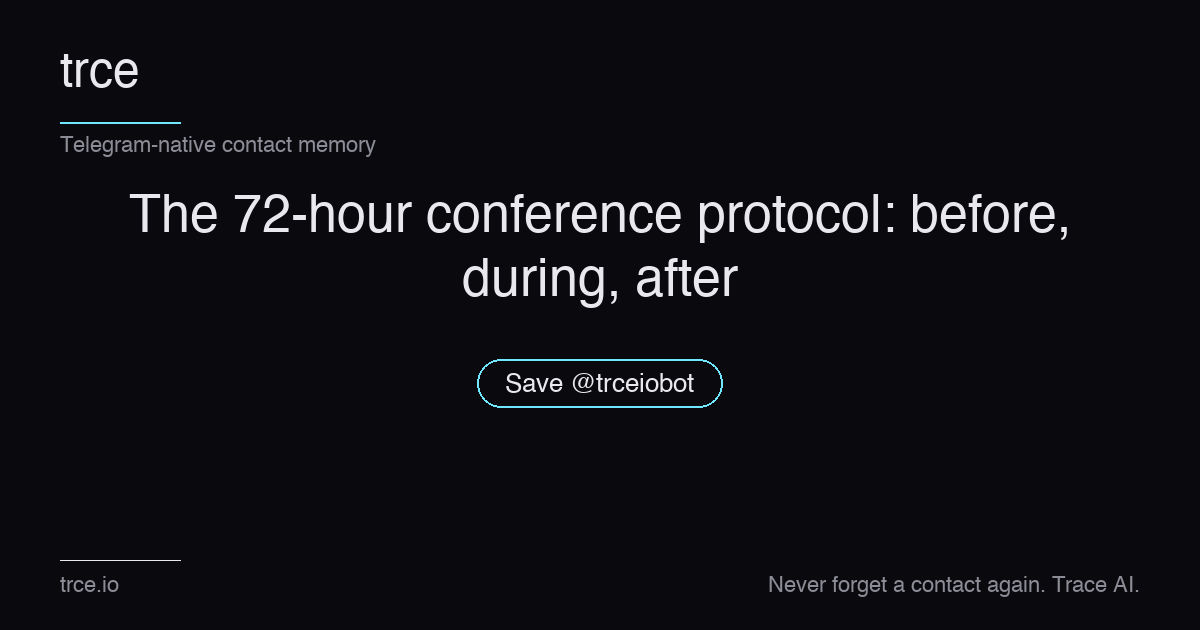
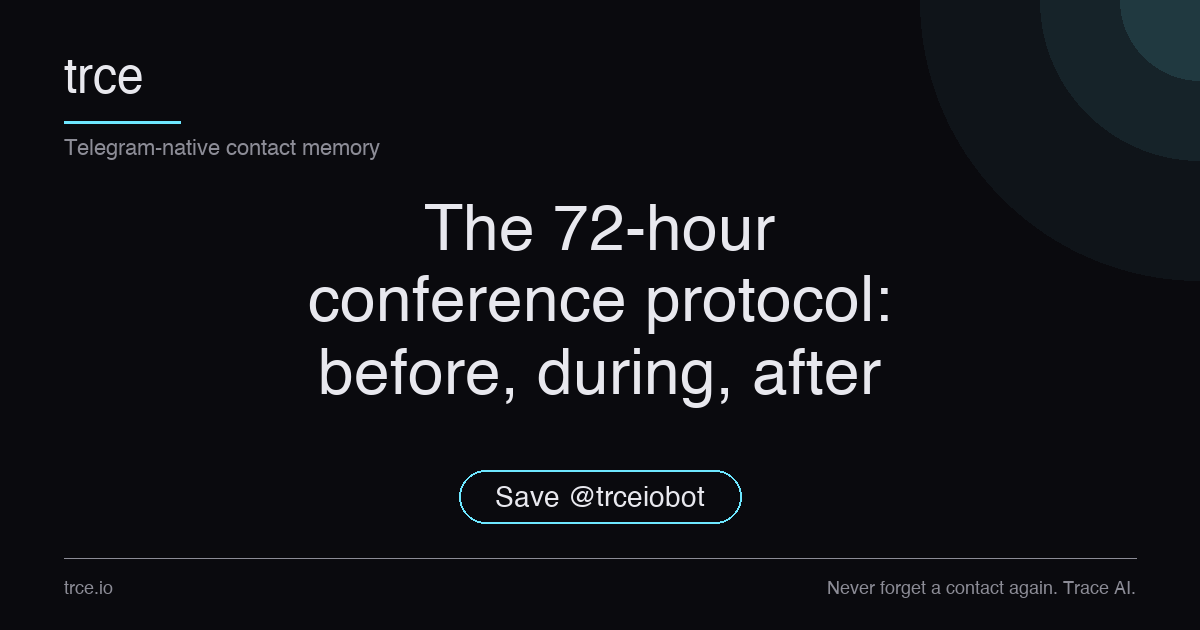
Blog: the-72-hour-conference-protocol

diff --git a/website/blog/the-72-hour-conference-protocol.html b/website/blog/the-72-hour-conference-protocol.html
@@ -1,0 +1,313 @@
+<!DOCTYPE html>
+<html lang="en">
+<head>
+<meta charset="utf-8">
+<meta name="viewport" content="width=device-width, initial-scale=1">
+<title>The 72-hour conference protocol: before, during, and after</title>
+<meta name="description" content="A three-day system for high-volume crypto conferences — what to do the day before, the day of, and the day after Token2049 or Devconnect.">
+<meta property="og:title" content="The 72-hour conference protocol: before, during, and after">
+<meta property="og:site_name" content="trce">
+<meta property="og:description" content="A three-day system for high-volume crypto conferences — what to do the day before, the day of, and the day after.">
+<meta property="og:type" content="article">
+<meta property="og:locale" content="en_US">
+<meta property="og:url" content="https://trce.io/blog/the-72-hour-conference-protocol">
+<meta property="og:image" content="https://trce.io/assets/blog-covers/the-72-hour-conference-protocol.png">
+<meta property="og:image:width" content="1200">
+<meta property="og:image:height" content="630">
+<meta property="og:image:alt" content="The 72-hour conference protocol: before, during, and after">
+<meta name="twitter:card" content="summary_large_image">
+<meta name="twitter:title" content="The 72-hour conference protocol: before, during, and after">
+<meta name="twitter:description" content="A three-day system for high-volume crypto conferences — what to do the day before, the day of, and the day after.">
+<meta name="twitter:image" content="https://trce.io/assets/blog-covers/the-72-hour-conference-protocol.png">
+<meta name="twitter:image:alt" content="The 72-hour conference protocol: before, during, and after">
+<link rel="canonical" href="https://trce.io/blog/the-72-hour-conference-protocol">
+<link rel="icon" type="image/png" sizes="any" href="/assets/trce-logo-square.png">
+
+<script type="application/ld+json">
+{
+  "@context": "https://schema.org",
+  "@type": "BlogPosting",
+  "headline": "The 72-hour conference protocol: before, during, and after",
+  "description": "A three-day system for high-volume crypto conferences — what to do the day before, the day of, and the day after.",
+  "author": {
+    "@type": "Organization",
+    "name": "trce",
+    "url": "https://trce.io"
+  },
+  "publisher": {
+    "@type": "Organization",
+    "name": "trce",
+    "logo": {
+      "@type": "ImageObject",
+      "url": "https://trce.io/logo.png"
+    }
+  },
+  "datePublished": "2026-06-30",
+  "dateModified": "2026-06-30",
+  "mainEntityOfPage": {
+    "@type": "WebPage",
+    "@id": "https://trce.io/blog/the-72-hour-conference-protocol"
+  }
+}
+</script>
+<link rel="preconnect" href="https://fonts.googleapis.com">
+<link rel="preconnect" href="https://fonts.gstatic.com" crossorigin>
+<link href="https://fonts.googleapis.com/css2?family=Inter:wght@200;300;400;500;600&family=JetBrains+Mono:wght@400;500&display=swap" rel="stylesheet">
+<style>
+:root {
+  --bg: #0a0a0e;
+  --surface: #16161e;
+  --surface-2: #1f1f28;
+  --border: #2a2a35;
+  --border-soft: rgba(232,232,238,.08);
+  --text: #e8e8ee;
+  --text-2: rgba(232,232,238,.65);
+  --text-3: rgba(232,232,238,.4);
+  --accent: #00ff88;
+  --accent-dim: rgba(0,255,136,.15);
+  --accent-2: #00d4ff;
+}
+* { box-sizing: border-box; margin: 0; padding: 0; }
+body {
+  font-family: 'Inter', -apple-system, sans-serif;
+  background: var(--bg);
+  color: var(--text);
+  line-height: 1.6;
+  font-weight: 300;
+  font-size: 17px;
+}
+.mono { font-family: 'JetBrains Mono', monospace; }
+
+.nav {
+  position: sticky; top: 0; z-index: 100;
+  padding: 16px 32px;
+  display: flex; align-items: center; justify-content: space-between;
+  background: rgba(10,10,14,.85);
+  backdrop-filter: blur(20px);
+  -webkit-backdrop-filter: blur(20px);
+  border-bottom: 1px solid var(--border-soft);
+}
+.logo { font-family: 'JetBrains Mono', monospace; font-size: 14px; font-weight: 500; color: var(--accent); display: flex; align-items: center; gap: 8px; text-decoration: none; }
+.logo-dot { width: 6px; height: 6px; border-radius: 50%; background: var(--accent); box-shadow: 0 0 8px var(--accent); }
+.nav-links { display: flex; gap: 32px; list-style: none; font-family: 'JetBrains Mono', monospace; font-size: 12px; }
+.nav-links a { color: var(--text-2); text-decoration: none; transition: color .2s; }
+.nav-links a:hover { color: var(--text); }
+.nav-links a.active { color: var(--accent); }
+.btn-nav { font-family: 'JetBrains Mono', monospace; font-size: 12px; padding: 8px 16px; background: var(--accent); color: #0a0a0a; border: none; border-radius: 6px; text-decoration: none; }
+.avatar { width: 28px; height: 28px; border-radius: 50%; background: var(--surface-2); border: 1px solid var(--border); display: flex; align-items: center; justify-content: center; font-family: 'JetBrains Mono', monospace; font-size: 11px; color: var(--text-3); }
+
+article {
+  max-width: 720px;
+  margin: 0 auto;
+  padding: 80px 32px;
+}
+.back-link {
+  font-family: 'JetBrains Mono', monospace;
+  font-size: 12px;
+  color: var(--text-3);
+  text-decoration: none;
+  margin-bottom: 48px;
+  display: inline-block;
+}
+.back-link:hover { color: var(--accent); }
+
+.post-header { margin-bottom: 64px; }
+.post-label {
+  font-family: 'JetBrains Mono', monospace;
+  font-size: 11px; letter-spacing: .08em;
+  text-transform: uppercase;
+  color: var(--accent);
+  margin-bottom: 16px;
+}
+.post-header h1 {
+  font-size: clamp(32px, 5vw, 52px);
+  font-weight: 200;
+  line-height: 1.15;
+  letter-spacing: -.03em;
+  margin-bottom: 24px;
+}
+.post-header h1 em { font-style: italic; color: var(--text-2); }
+.post-meta {
+  font-family: 'JetBrains Mono', monospace;
+  font-size: 11px;
+  color: var(--text-3);
+  display: flex; gap: 16px;
+}
+
+article p { margin-bottom: 24px; line-height: 1.75; }
+article h2 {
+  font-size: 28px; font-weight: 400;
+  letter-spacing: -.02em;
+  margin: 56px 0 20px;
+}
+article h3 {
+  font-size: 20px; font-weight: 500;
+  letter-spacing: -.01em;
+  margin: 40px 0 12px;
+}
+article blockquote {
+  border-left: 3px solid var(--accent);
+  padding: 8px 0 8px 20px;
+  margin: 32px 0;
+  color: var(--text-2);
+  font-style: italic;
+}
+article ul, article ol {
+  margin: 16px 0 24px 24px;
+}
+article li { margin-bottom: 8px; line-height: 1.7; }
+article strong { color: var(--text); font-weight: 500; }
+article a { color: var(--accent); }
+article code {
+  font-family: 'JetBrains Mono', monospace;
+  font-size: 14px;
+  background: var(--surface);
+  padding: 2px 6px;
+  border-radius: 4px;
+  border: 1px solid var(--border);
+}
+
+.cta-box {
+  margin: 64px 0 32px;
+  padding: 32px;
+  background: var(--surface);
+  border: 1px solid var(--border);
+  border-radius: 12px;
+  text-align: center;
+}
+.cta-box h3 { font-size: 22px; font-weight: 400; margin: 0 0 12px; }
+.cta-box p { font-size: 15px; color: var(--text-2); margin-bottom: 24px; }
+.btn-cta {
+  display: inline-block;
+  font-family: 'JetBrains Mono', monospace;
+  font-size: 13px;
+  padding: 14px 28px;
+  background: var(--accent);
+  color: #0a0a0a;
+  border: none;
+  border-radius: 8px;
+  cursor: pointer;
+  text-decoration: none;
+  font-weight: 500;
+}
+
+.footer {
+  padding: 48px 32px 32px;
+  border-top: 1px solid var(--border);
+  text-align: center;
+  font-family: 'JetBrains Mono', monospace;
+  font-size: 11px;
+  color: var(--text-3);
+}
+.footer a { color: var(--text-3); }
+
+@media (max-width: 768px) {
+  .nav { padding: 16px 20px; }
+  .nav-links { display: none; }
+  article { padding: 48px 20px; }
+}
+</style>
+</head>
+<body>
+
+<nav class="nav">
+  <a href="/" class="logo"><span class="logo-dot"></span>trce</a>
+  <ul class="nav-links">
+    <li><a href="/#how">How it works</a></li>
+    <li><a href="/#pricing">Pricing</a></li>
+    <li><a href="/blog" class="active">Blog</a></li>
+    <li><a href="/#faq">FAQ</a></li>
+  </ul>
+  <div style="display: flex; align-items: center; gap: 16px;">
+    <a class="btn-nav" href="https://t.me/trceiobot" target="_blank" rel="noopener">Open Bot →</a>
+    <div class="avatar">N</div>
+  </div>
+</nav>
+
+<article>
+
+  <a class="back-link" href="/blog">← All posts</a>
+
+  <header class="post-header">
+    <div class="post-label">Conference Tactics</div>
+    <h1>The 72-hour conference protocol: before, during, and <em>after.</em></h1>
+    <div class="post-meta">
+      <span>trce team</span>
+      <span>·</span>
+      <span>2026-06-30</span>
+      <span>·</span>
+      <span>5 min read</span>
+    </div>
+  </header>
+
+  <p>You land in Singapore on a Tuesday night. Token2049 opens Wednesday morning and runs through Thursday. By Friday morning, you've collected 200 Telegram QRs, promised 60 intros, and forgotten 40 names. By Monday, you've followed up with 12. By next month, you've followed up with 0.</p>
+
+  <p>The event itself isn't the bottleneck. The 72 hours around the event are. Here's the protocol that survives contact volumes most networking advice never accounts for.</p>
+
+  <h2>The day before: pick 10</h2>
+
+  <p>Most people walk into a 5,000-person conference and try to meet everyone. They meet no one. Bain &amp; Company's research on B2B events keeps reaching the same conclusion: the highest-ROI attendees arrive with a short, pre-validated target list, not an open calendar.</p>
+
+  <p>Before any conference, do this:</p>
+
+  <ul>
+    <li>Pull the speaker and sponsor lists. Star the 10 names that map to your next quarter's pipeline.</li>
+    <li>Send each one a single Telegram message, two days out. Reference something they wrote or shipped — not "would love to connect."</li>
+    <li>Book the two highest-value meetings before you fly. Everything else is opportunistic.</li>
+    <li>Open <code>@trceiobot</code>, type <code>/trip set {conference name}</code>, and tag the people you actually want to find again. The bot will surface them in any search later.</li>
+  </ul>
+
+  <p>That's the whole pre-event system. It takes 90 minutes. It saves 30 hours of dead-end conversations.</p>
+
+  <h2>The day of: capture, don't converse</h2>
+
+  <p>Once the event starts, your job is not to have great conversations. Your job is to have <em>captured</em> great conversations. The conversations themselves will be forgotten. The database won't.</p>
+
+  <blockquote>The 247 contacts you collect at a 3-day event are worthless if you can't find the 4 that matter three weeks from now.</blockquote>
+
+  <p>The capture loop has to take less than 5 seconds. If it takes 30 seconds, you stop doing it after the 12th person, and the rest of the event evaporates. That's why the only viable primitive is forward — open Telegram, forward the QR, done. Anything that asks you to type a name or open a separate app collapses at high volume.</p>
+
+  <p>A few specific moves:</p>
+
+  <ul>
+    <li>Tag the moment in the conversation when you forward the QR, not later. "The one who thinks the next cycle is RWAFi" beats "the one from the panel."</li>
+    <li>Voice notes beat typed notes. A 6-second clip gets tone, intent, and the joke. None of that survives a typed summary.</li>
+    <li>Forward screenshots of the group chats, the TG channel invites, the X DMs. Your future self doesn't remember the channel name.</li>
+  </ul>
+
+  <h2>The day after: the 90-minute follow-up window</h2>
+
+  <p>This is the part everyone skips. InsideSales.com's Lead Response Management study found that the odds of contacting a lead drop 100x in the first hour, and the response rate on a 30-minute-old lead is 21x higher than on a 30-day-old one. The same curve applies to conference contacts — except you collected 200 of them on the same day, and the curve is steeper.</p>
+
+  <p>By hour 24 after the conference ends, your reply rate is somewhere between 40% and 60%. By hour 72, it's 10% to 15%. By the following Monday, you're back to 5% and you're competing with 200 other people who met the same person at the same booth.</p>
+
+  <p>So the morning after the closing party, before you fly home, you spend 90 minutes on this:</p>
+
+  <ul>
+    <li>Open the trip in <code>@trceiobot</code>. Ask for a follow-up draft per contact.</li>
+    <li>Each draft is 3 sentences, references one thing you actually said, and proposes one next step.</li>
+    <li>You skim, edit the 10% that need a personal touch, and send the rest.</li>
+  </ul>
+
+  <p>240 follow-ups in 90 minutes. Not 240 generic "great to meet you" lines — 240 messages tied to a specific moment in a specific conversation.</p>
+
+  <h2>Why this beats the contact app</h2>
+
+  <p>Most CRMs and contact apps fail at conferences because they assume you'll sit down afterward and type things in. You won't. The 5-second forward loop is the only capture primitive that survives a 12-hour day on your feet.</p>
+
+  <p>The rest of the system — the 10-name pre-list, the 5-second capture, the 90-minute follow-up window — is just structure around that single primitive. Skip any of the three and the database degrades. Keep all three and you walk out of Token2049 with a relationship list, not a stack of paper cards.</p>
+
+  <div class="cta-box">
+    <h3>Run the protocol at your next event.</h3>
+    <p>Open @trceiobot, type <code>/trip set {next conference}</code>, and start forwarding QRs. The 72 hours run themselves.</p>
+    <a class="btn-cta" href="https://t.me/trceiobot" target="_blank" rel="noopener">Open @trceiobot →</a>
+  </div>
+
+</article>
+
+<footer class="footer">
+  © 2026 trce · <a href="/" style="color: var(--text-3);">Home</a> · <a href="/blog" style="color: var(--text-3);">All posts</a>
+</footer>
+
+</body>
+</html>

diff --git a/website/blog/index.html b/website/blog/index.html
@@ -278,6 +278,22 @@ body {
 
 <section class="posts">
 
+  <a class="post-card" href="/blog/the-72-hour-conference-protocol.html">
+    <div class="post-cover">
+      <div class="post-cover-pattern"></div>
+      <div class="post-cover-icon">⬡</div>
+    </div>
+    <div class="post-body">
+      <div class="post-meta">
+        <span>2026-06-30</span>
+        <span class="post-tag">conference tactics</span>
+      </div>
+      <h2>The 72-hour conference protocol: before, during, and after</h2>
+      <p>A three-day system for high-volume crypto conferences — the 10-name pre-list, the 5-second capture loop, and the 90-minute follow-up window that turns 200 QRs into real relationships.</p>
+      <div class="post-cta">Read post →</div>
+    </div>
+  </a>
+
   <a class="post-card" href="/blog/forward-forget-retrieve-introverts.html">
     <div class="post-cover">
       <div class="post-cover-pattern"></div>